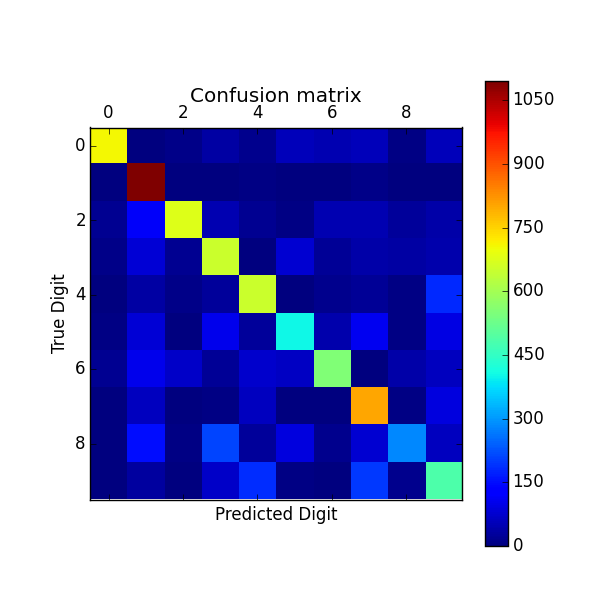
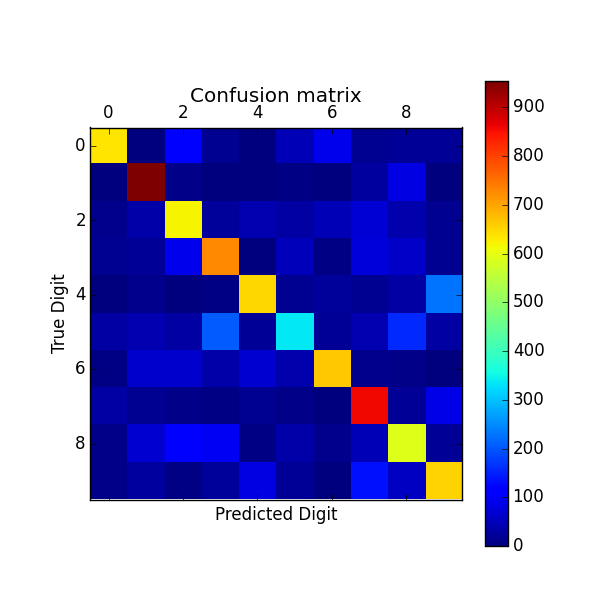
code cleanup

diff --git a/HW1/problem1.py b/HW1/problem1.py
@@ -46,7 +46,7 @@ from sklearn.metrics import confusion_matrix
 import pylab as plt
 from sklearn import cross_validation
 
-DEBUG = True
+DEBUG = False
 ############# FILE STUFF ############# 
 testFileMNIST = "./digit-dataset/test.mat"
 trainFileMNIST = "./digit-dataset/train.mat"
@@ -106,7 +106,11 @@ for elem in imageComplete:
 # NOTE: Set aside 50,000-60,000 to validate
 
 ############# TRAIN SVM ############# 
-C = [0.000001, 0.001, 1, 1000, 1000000]                    # array of values for parameter C
+print 50*'-'
+print "SVM TRAINING"
+print 50*'-'
+
+C = [0.000000001, 0.000001, 0.001, 1, 1000]                    # array of values for parameter C
 training_Size = [100, 200, 500, 1000]#, 2000, 5000, 10000]
 for elem in training_Size:
     if DEBUG:
@@ -125,9 +129,10 @@ for elem in training_Size:
     
     print "Training Size:", elem 
     print "Accuracy: ", 100.0*accuracy/len(predicted_Digits), "%"
+    print 50*'-'
+
     cm = confusion_matrix(actual_Digits, predicted_Digits)
-############# PLOT RESULTS ############# 
-    
+############# PLOT RESULTS #############     
     # Show confusion matrix in a separate window
     plt.matshow(cm)
     plt.title('Confusion matrix')
@@ -135,17 +140,15 @@ for elem in training_Size:
     plt.ylabel('True Digit')
     plt.xlabel('Predicted Digit')
     plt.savefig("./Results/" + str(elem)+"_CM.png")
+
 ####################################### 
 
 #########################################################
 # CROSS VALIDATION 
 #########################################################
-
-############# USING BUILT IN FUNCTION ############# 
-# for C_Value in C:
-#     clf = svm.SVC(kernel='linear', C=C_Value)
-#     scores = cross_validation.cross_val_score(clf, shuffledData[:10000], shuffledLabels[:10000], cv=10)
-#     print "C Value:", C_Value, "Accuracy: %0.2f (+/- %0.2f)" % (scores.mean(), scores.std() / 2)
+print 50*'-'
+print "CROSS VALIDATION"
+print 50*'-'
 
 ############# DATA PARTIONING ############# 
 crossValidation_Data= []
@@ -158,19 +161,22 @@ for index in range(0,k):
     crossValidation_Labels.append(shuffledLabels[index:lengthData:stepLength])
 
 if DEBUG:
-    print 50*'-'
     print "Lengths of CV Data and Labels: ", np.array(crossValidation_Data).shape, np.array(crossValidation_Labels).shape
     print 50*'-'
 
+############# CROSS-VALIDATION ############# 
 for C_Value in C:
     clf = svm.SVC(kernel='linear', C=C_Value)
     scores = computeCV_Score(clf, crossValidation_Data, crossValidation_Labels, k)
-    print 50*'-'
-    print scores
     print "C Value:", C_Value, "Accuracy: %0.2f (+/- %0.2f)" % (np.array(scores).mean(), np.array(scores).std() / 2)
     print 50*'-'
 
-############# CROSS-VALIDATION ############# 
+############# USING BUILT IN FUNCTION ############# 
+for C_Value in C:
+    clf = svm.SVC(kernel='linear', C=C_Value)
+    scores = cross_validation.cross_val_score(clf, shuffledData[:10000], shuffledLabels[:10000], cv=10)
+    print "C Value:", C_Value, "Accuracy: %0.2f (+/- %0.2f)" % (scores.mean(), scores.std() / 2)
+    print 50*'-'
 
 
 print 50*'-'
